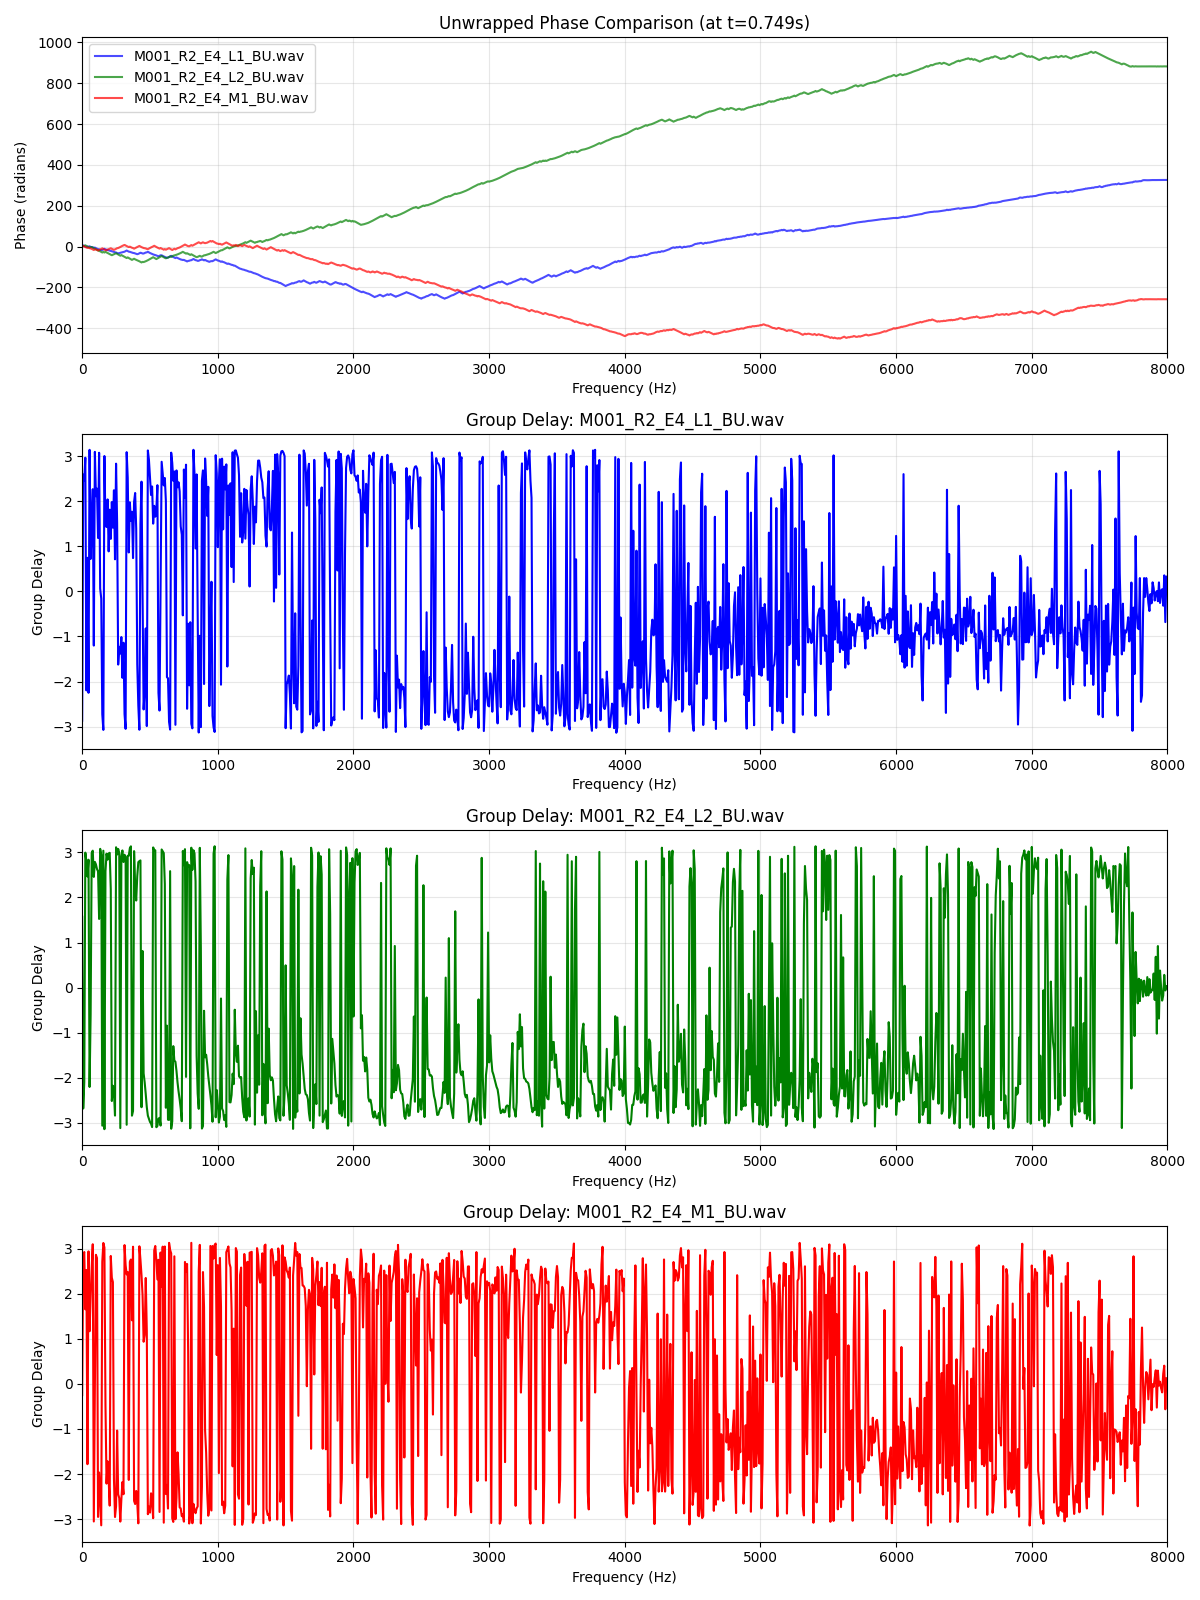
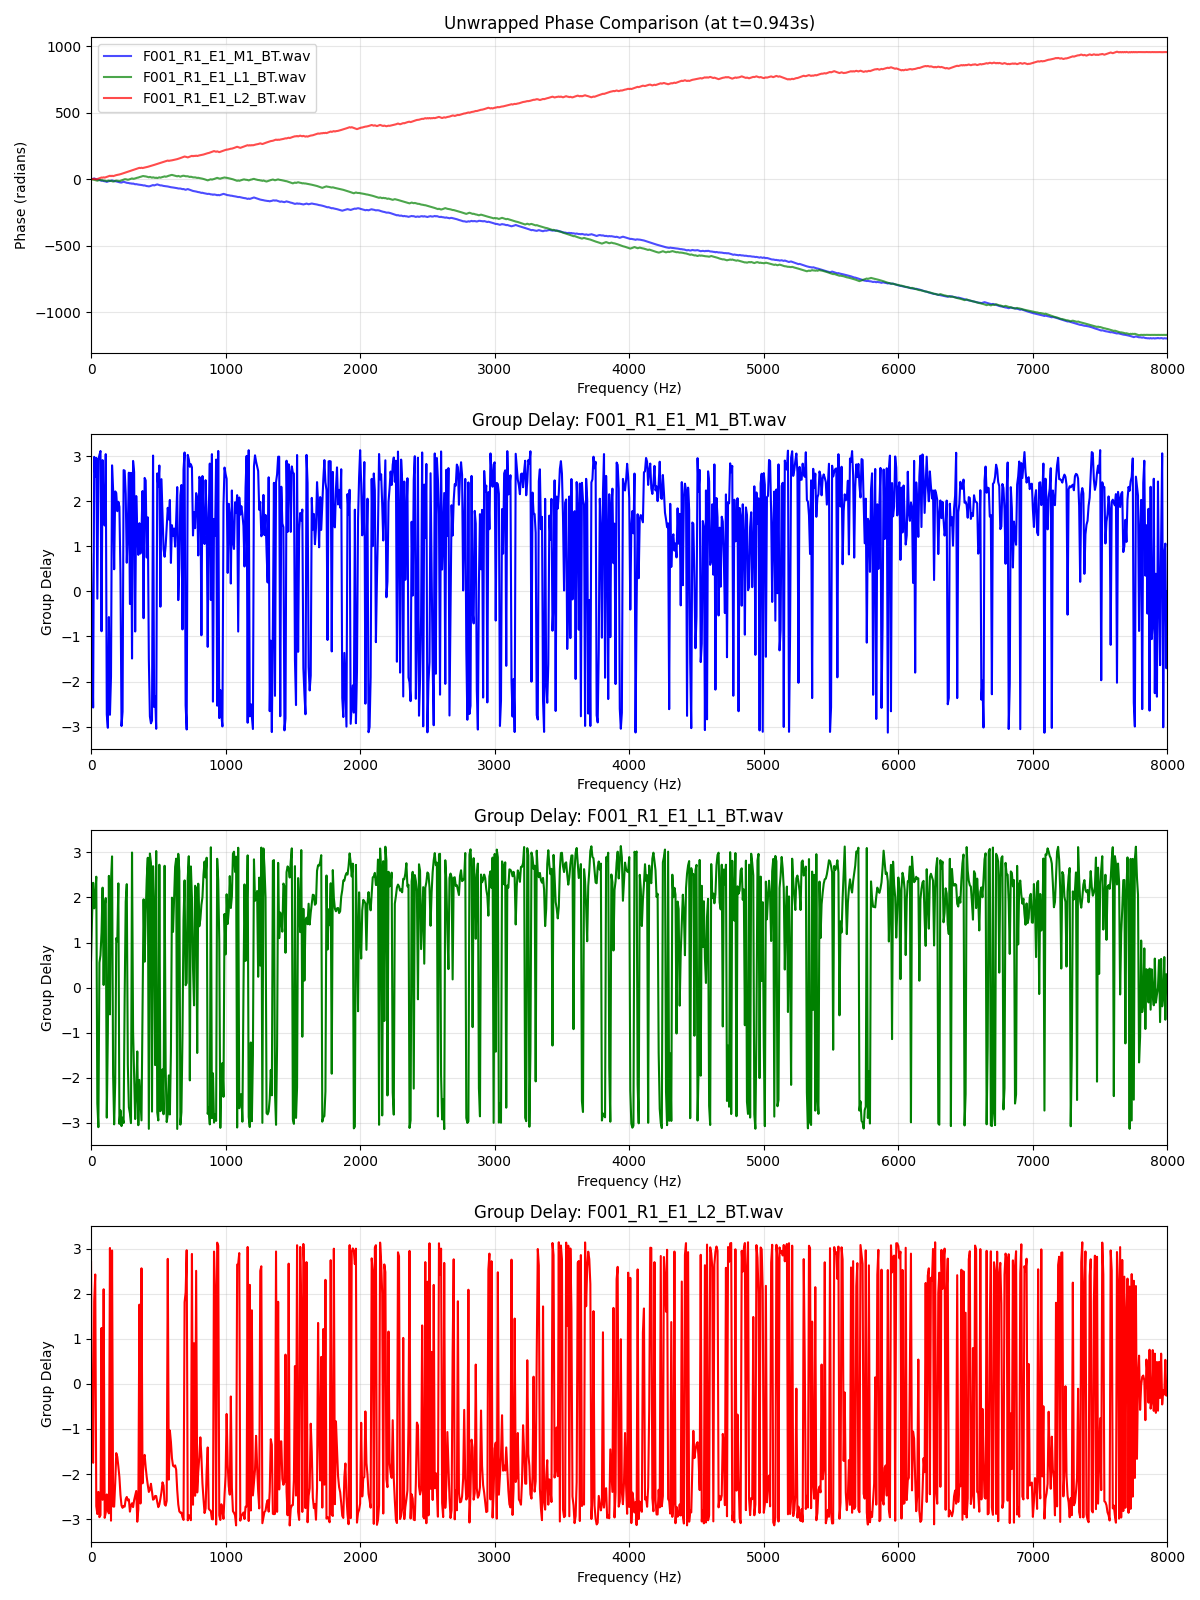
change images

diff --git a/compare_spectra.py b/compare_spectra.py
@@ -242,13 +242,13 @@ def compare_phase_features(file_list, output_filename="comparison_phase_features
 if __name__ == "__main__":
     # The specific files requested by the user
     files_to_compare = [
-        "/home/nk21137/OneDrive/5years/graduation_research/analyze_wave/M1/M001_R2_E4_L1_BU.wav",
-        "/home/nk21137/OneDrive/5years/graduation_research/analyze_wave/M1/M001_R2_E4_L2_BU.wav",
-        "/home/nk21137/OneDrive/5years/graduation_research/analyze_wave/M1/M001_R2_E4_M1_BU.wav"
+        "./F001_R1_E1_M1_BT.wav",
+        "./F001_R1_E1_L1_BT.wav",
+        "./F001_R1_E1_L2_BT.wav"
     ]
     
     # Check if files exist, if not try relative paths
-    base_dir = "/home/nk21137/OneDrive/5years/graduation_research/analyze_wave/"
+    base_dir = "./"
     resolved_files = []
     for f in files_to_compare:
         if os.path.exists(f):
